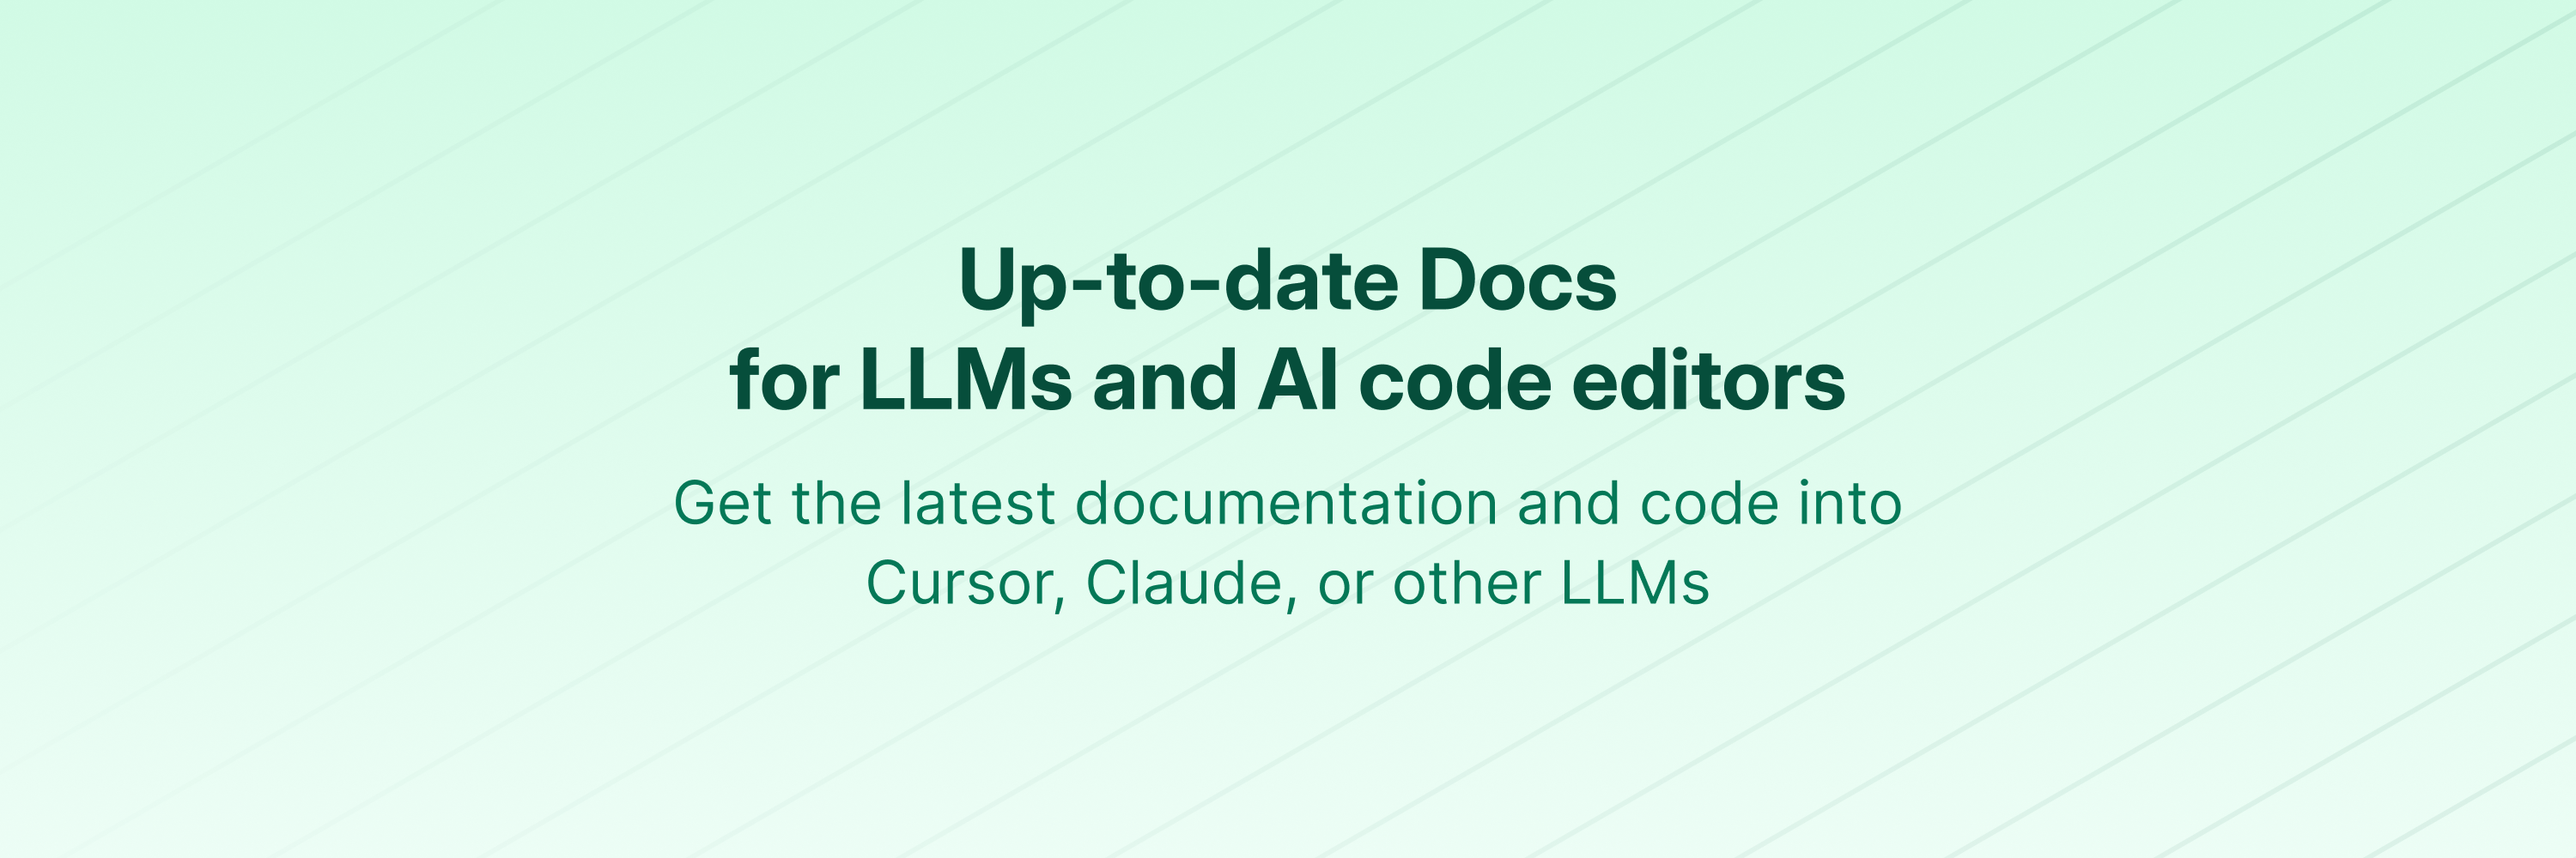
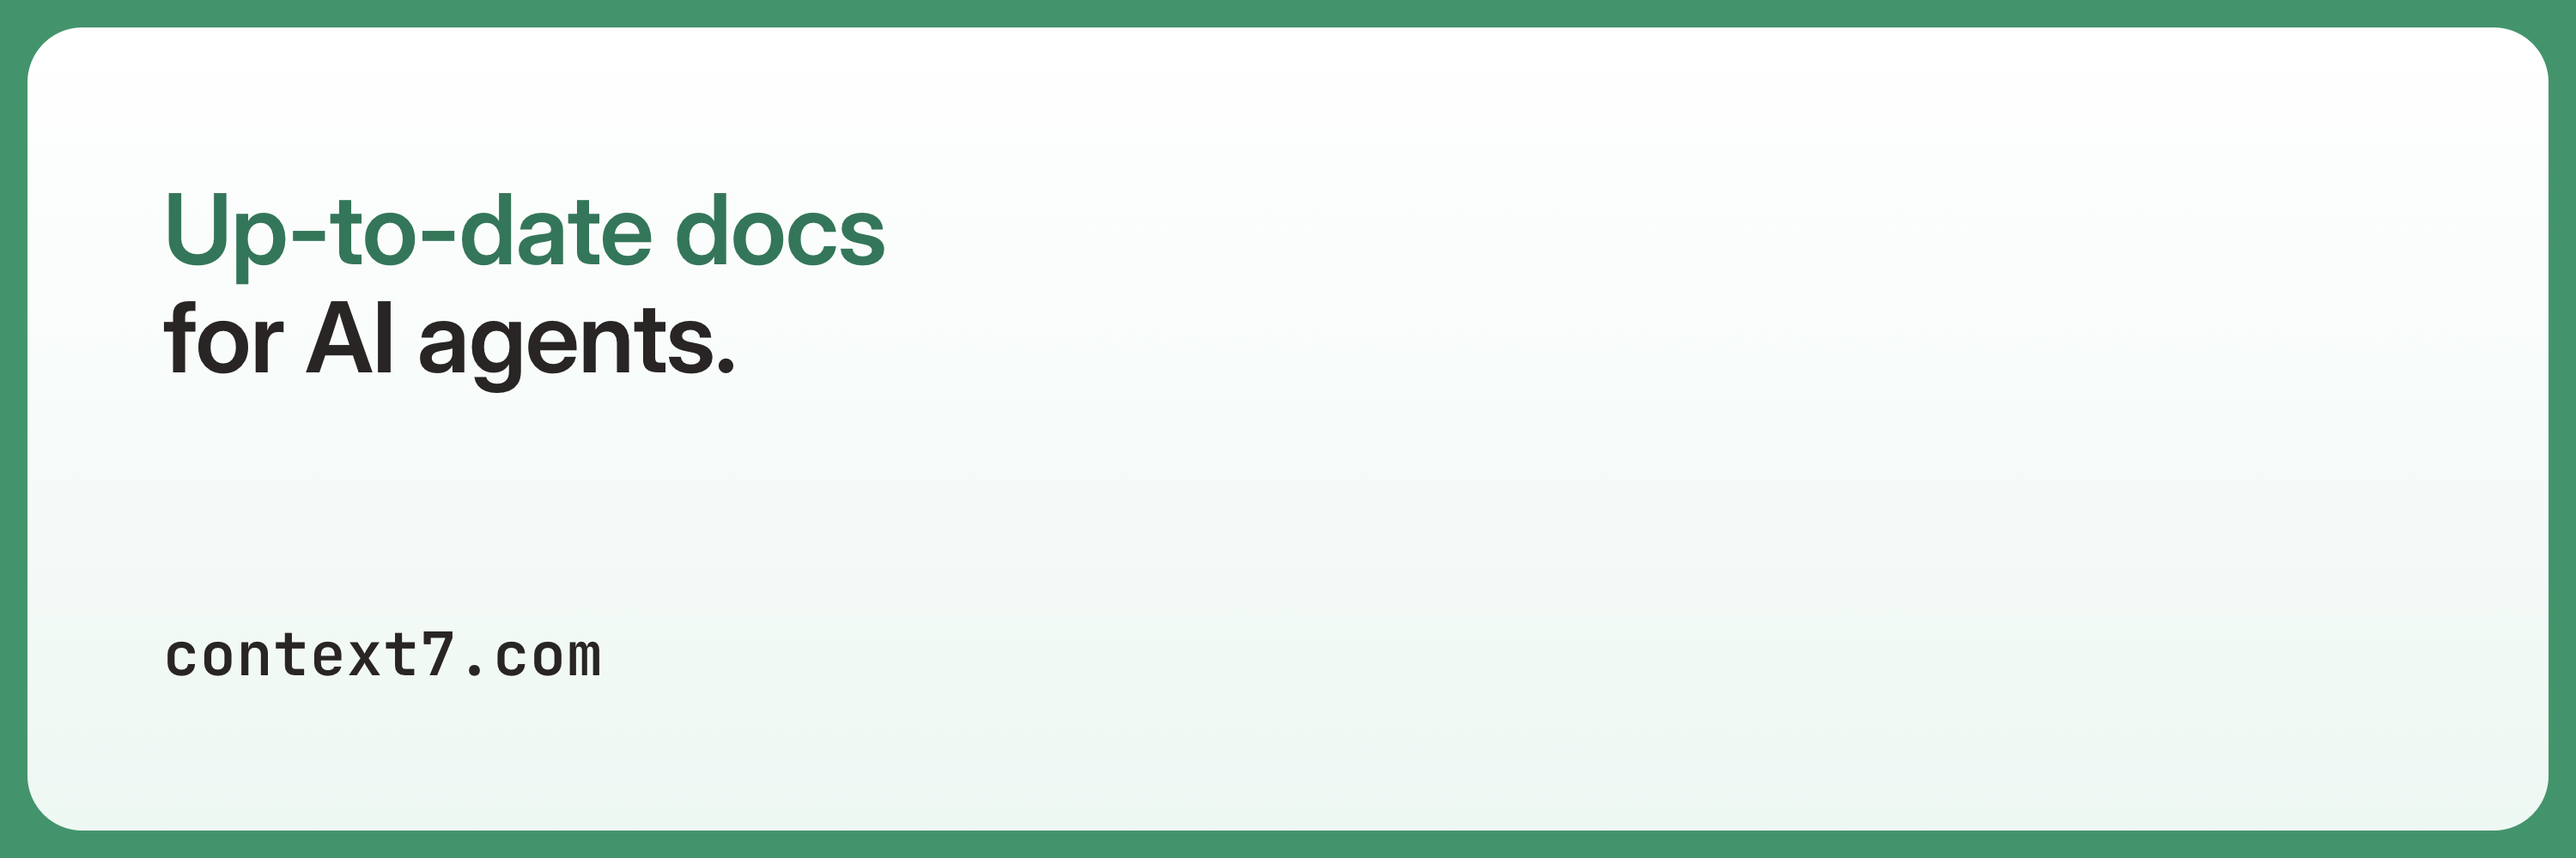
CTX7-3184: Position Context7 for AI agents in README, docs and plugin copy

diff --git a/i18n/README.uk.md b/i18n/README.uk.md
@@ -1,4 +1,4 @@
-# Context7 MCP — Актуальна документація з прикладами коду для будь-якого запиту
+# Context7 MCP — Актуальна документація для ШІ-агентів
 
 [![Website](https://img.shields.io/badge/Website-context7.com-blue)](https://context7.com) [<img alt="Install in VS Code (npx)" src="https://img.shields.io/badge/VS_Code-VS_Code?style=flat-square&label=Install%20Context7%20MCP&color=0098FF">](https://insiders.vscode.dev/redirect?url=vscode%3Amcp%2Finstall%3F%7B%22name%22%3A%22context7%22%2C%22command%22%3A%22npx%22%2C%22args%22%3A%5B%22-y%22%2C%22%40upstash%2Fcontext7-mcp%40latest%22%5D%7D)
 [![繁體中文](https://img.shields.io/badge/docs-繁體中文-yellow)](./README.zh-TW.md) [![简体中文](https://img.shields.io/badge/docs-简体中文-yellow)](./README.zh-CN.md) [![日本語](https://img.shields.io/badge/docs-日本語-b7003a)](./README.ja.md) [![한국어 문서](https://img.shields.io/badge/docs-한국어-green)](./README.ko.md) [![Documentación en Español](https://img.shields.io/badge/docs-Español-orange)](./README.es.md) [![Documentation en Français](https://img.shields.io/badge/docs-Français-blue)](./README.fr.md) [![Documentação em Português (Brasil)](<https://img.shields.io/badge/docs-Português%20(Brasil)-purple>)](./README.pt-BR.md) [![Documentazione in italiano](https://img.shields.io/badge/docs-Italian-red)](./README.it.md) [![Dokumentasi Bahasa Indonesia](https://img.shields.io/badge/docs-Bahasa%20Indonesia-pink)](./README.id-ID.md) [![Dokumentation auf Deutsch](https://img.shields.io/badge/docs-Deutsch-darkgreen)](./README.de.md) [![Документация на русском языке](https://img.shields.io/badge/docs-Русский-darkblue)](./README.ru.md) [![Türkçe Doküman](https://img.shields.io/badge/docs-Türkçe-blue)](./README.tr.md) [![Arabic Documentation](https://img.shields.io/badge/docs-Arabic-white)](./README.ar.md) [![Українська документація](https://img.shields.io/badge/docs-Українська-lightblue)](./README.uk.md)

diff --git a/i18n/README.vi.md b/i18n/README.vi.md
@@ -1,4 +1,4 @@
-# Context7 MCP - Tài Liệu Code Cập Nhật Cho Mọi Prompt
+# Context7 MCP - Tài Liệu Cập Nhật Cho Các AI Agent
 
 [![Website](https://img.shields.io/badge/Website-context7.com-blue)](https://context7.com) [<img alt="Install in VS Code (npx)" src="https://img.shields.io/badge/VS_Code-VS_Code?style=flat-square&label=Install%20Context7%20MCP&color=0098FF">](https://insiders.vscode.dev/redirect?url=vscode%3Amcp%2Finstall%3F%7B%22name%22%3A%22context7%22%2C%22command%22%3A%22npx%22%2C%22args%22%3A%5B%22-y%22%2C%22%40upstash%2Fcontext7-mcp%40latest%22%5D%7D)
 [![繁體中文](https://img.shields.io/badge/docs-繁體中文-yellow)](./README.zh-TW.md) [![简体中文](https://img.shields.io/badge/docs-简体中文-yellow)](./README.zh-CN.md) [![日本語](https://img.shields.io/badge/docs-日本語-b7003a)](./README.ja.md) [![한국어 문서](https://img.shields.io/badge/docs-한국어-green)](./README.ko.md) [![Documentación en Español](https://img.shields.io/badge/docs-Español-orange)](./README.es.md) [![Documentation en Français](https://img.shields.io/badge/docs-Français-blue)](./README.fr.md) [![Documentação em Português (Brasil)](<https://img.shields.io/badge/docs-Português%20(Brasil)-purple>)](./README.pt-BR.md) [![Documentazione in italiano](https://img.shields.io/badge/docs-Italian-red)](./README.it.md) [![Dokumentasi Bahasa Indonesia](https://img.shields.io/badge/docs-Bahasa%20Indonesia-pink)](./README.id-ID.md) [![Dokumentation auf Deutsch](https://img.shields.io/badge/docs-Deutsch-darkgreen)](./README.de.md) [![Документация на русском языке](https://img.shields.io/badge/docs-Русский-darkblue)](./README.ru.md) [![Українська документація](https://img.shields.io/badge/docs-Українська-lightblue)](./README.uk.md) [![Türkçe Doküman](https://img.shields.io/badge/docs-Türkçe-blue)](./README.tr.md) [![Arabic Documentation](https://img.shields.io/badge/docs-Arabic-white)](./README.ar.md) [![Tiếng Việt](https://img.shields.io/badge/docs-Tiếng%20Việt-red)](./README.vi.md)

diff --git a/i18n/README.id-ID.md b/i18n/README.id-ID.md
@@ -1,4 +1,4 @@
-# Context7 MCP - Dokumentasi Kode Terkini Untuk Setiap Permintaan
+# Context7 MCP - Dokumentasi Terkini Untuk Agen AI
 
 [![Website](https://img.shields.io/badge/Website-context7.com-blue)](https://context7.com) [<img alt="Install in VS Code (npx)" src="https://img.shields.io/badge/VS_Code-VS_Code?style=flat-square&label=Install%20Context7%20MCP&color=0098FF">](https://insiders.vscode.dev/redirect?url=vscode%3Amcp%2Finstall%3F%7B%22name%22%3A%22context7%22%2C%22command%22%3A%22npx%22%2C%22args%22%3A%5B%22-y%22%2C%22%40upstash%2Fcontext7-mcp%40latest%22%5D%7D)
 [![English](https://img.shields.io/badge/docs-English-blue)](../README.md) [![繁體中文](https://img.shields.io/badge/docs-繁體中文-yellow)](./README.zh-TW.md) [![简体中文](https://img.shields.io/badge/docs-简体中文-yellow)](./README.zh-CN.md) [![日本語](https://img.shields.io/badge/docs-日本語-b7003a)](./README.ja.md) [![한국어 문서](https://img.shields.io/badge/docs-한국어-green)](./README.ko.md) [![Documentación en Español](https://img.shields.io/badge/docs-Español-orange)](./README.es.md) [![Documentation en Français](https://img.shields.io/badge/docs-Français-blue)](./README.fr.md) [![Documentação em Português (Brasil)](<https://img.shields.io/badge/docs-Português%20(Brasil)-purple>)](./README.pt-BR.md) [![Documentazione in italiano](https://img.shields.io/badge/docs-Italian-red)](./README.it.md) [![Dokumentasi Bahasa Indonesia](https://img.shields.io/badge/docs-Bahasa%20Indonesia-pink)](./README.id-ID.md) [![Dokumentation auf Deutsch](https://img.shields.io/badge/docs-Deutsch-darkgreen)](./README.de.md) [![Документация на русском языке](https://img.shields.io/badge/docs-Русский-darkblue)](./README.ru.md) [![Українська документація](https://img.shields.io/badge/docs-Українська-lightblue)](./README.uk.md) [![Türkçe Doküman](https://img.shields.io/badge/docs-Türkçe-blue)](./README.tr.md) [![Arabic Documentation](https://img.shields.io/badge/docs-Arabic-white)](./README.ar.md)

diff --git a/packages/mcp/README.md b/packages/mcp/README.md
@@ -2,7 +2,7 @@
 
 [![Install MCP Server](https://cursor.com/deeplink/mcp-install-dark.svg)](https://cursor.com/en/install-mcp?name=context7&config=eyJ1cmwiOiJodHRwczovL21jcC5jb250ZXh0Ny5jb20vbWNwIn0%3D) [<img alt="Install in VS Code (npx)" src="https://img.shields.io/badge/Install%20in%20VS%20Code-0098FF?style=for-the-badge&logo=visualstudiocode&logoColor=white">](https://insiders.vscode.dev/redirect?url=vscode%3Amcp%2Finstall%3F%7B%22name%22%3A%22context7%22%2C%22command%22%3A%22npx%22%2C%22args%22%3A%5B%22-y%22%2C%22%40upstash%2Fcontext7-mcp%40latest%22%5D%7D)
 
-# Context7 MCP - Up-to-date Code Docs For Any Prompt
+# Context7 MCP - Up-to-date Docs for AI Agents
 
 [![Website](https://img.shields.io/badge/Website-context7.com-blue)](https://context7.com) [![NPM Version](https://img.shields.io/npm/v/%40upstash%2Fcontext7-mcp?color=red)](https://www.npmjs.com/package/@upstash/context7-mcp) [![MIT licensed](https://img.shields.io/npm/l/%40upstash%2Fcontext7-mcp)](./LICENSE)
 
@@ -18,7 +18,7 @@ LLMs rely on outdated or generic information about the libraries you use. You ge
 
 ## ✅ With Context7
 
-Context7 MCP pulls up-to-date, version-specific documentation and code examples straight from the source — and places them directly into your prompt.
+Context7 MCP pulls up-to-date, version-specific documentation and code examples straight from the source — and gives them to your coding agent.
 
 Add `use context7` to your prompt (or [set up a rule](#-installation) to auto-invoke):
 
@@ -32,7 +32,7 @@ Configure a Cloudflare Worker script to cache
 JSON API responses for five minutes. use context7
 ```
 
-Context7 fetches up-to-date code examples and documentation right into your LLM's context.
+Context7 fetches up-to-date code examples and documentation right into your coding agent's context.
 
 - 1⃣ Write your prompt naturally
 - 2⃣ Tell the LLM to `use context7` (or [set up a rule](#-installation) once)

diff --git a/i18n/README.ja.md b/i18n/README.ja.md
@@ -1,4 +1,4 @@
-# Context7 MCP - どんなプロンプトにも最新のコードドキュメントで応える
+# Context7 MCP - AIエージェントのための最新ドキュメント
 
 [![Website](https://img.shields.io/badge/Website-context7.com-blue)](https://context7.com) [<img alt="Install in VS Code (npx)" src="https://img.shields.io/badge/VS_Code-VS_Code?style=flat-square&label=Install%20Context7%20MCP&color=0098FF">](https://insiders.vscode.dev/redirect?url=vscode%3Amcp%2Finstall%3F%7B%22name%22%3A%22context7%22%2C%22command%22%3A%22npx%22%2C%22args%22%3A%5B%22-y%22%2C%22%40upstash%2Fcontext7-mcp%40latest%22%5D%7D)
 [![繁體中文](https://img.shields.io/badge/docs-繁體中文-yellow)](./README.zh-TW.md) [![簡體中文](https://img.shields.io/badge/docs-簡體中文-yellow)](./README.zh-CN.md) [![日本語](https://img.shields.io/badge/docs-日本語-b7003a)](./README.ja.md) [![한국어 문서](https://img.shields.io/badge/docs-한국어-green)](./README.ko.md) [![Documentación en Español](https://img.shields.io/badge/docs-Español-orange)](./README.es.md) [![Documentation en Français](https://img.shields.io/badge/docs-Français-blue)](./README.fr.md) [![Documentação em Português (Brasil)](<https://img.shields.io/badge/docs-Português%20(Brasil)-purple>)](./README.pt-BR.md) [![Documentazione in italiano](https://img.shields.io/badge/docs-Italian-red)](./README.it.md) [![Dokumentasi Bahasa Indonesia](https://img.shields.io/badge/docs-Bahasa%20Indonesia-pink)](./README.id-ID.md) [![Dokumentation auf Deutsch](https://img.shields.io/badge/docs-Deutsch-darkgreen)](./README.de.md) [![Документация на русском языке](https://img.shields.io/badge/docs-Русский-darkblue)](./README.ru.md) [![Türkçe Doküman](https://img.shields.io/badge/docs-Türkçe-blue)](./README.tr.md) [![Arabic Documentation](https://img.shields.io/badge/docs-Arabic-white)](./README.ar.md)

diff --git a/README.md b/README.md
@@ -2,7 +2,7 @@
 
 [![Install MCP Server](https://cursor.com/deeplink/mcp-install-dark.svg)](https://cursor.com/en/install-mcp?name=context7&config=eyJ1cmwiOiJodHRwczovL21jcC5jb250ZXh0Ny5jb20vbWNwIn0%3D)
 
-# Context7 Platform - Up-to-date Code Docs For Any Prompt
+# Context7 - Up-to-date Docs for AI Agents
 
 [![Website](https://img.shields.io/badge/Website-context7.com-blue)](https://context7.com) [![NPM Version](https://img.shields.io/npm/v/%40upstash%2Fcontext7-mcp?color=red)](https://www.npmjs.com/package/@upstash/context7-mcp) [![MIT licensed](https://img.shields.io/npm/l/%40upstash%2Fcontext7-mcp)](./LICENSE)
 
@@ -18,7 +18,7 @@ LLMs rely on outdated or generic information about the libraries you use. You ge
 
 ## ✅ With Context7
 
-Context7 pulls up-to-date, version-specific documentation and code examples straight from the source — and places them directly into your prompt.
+Context7 pulls up-to-date, version-specific documentation and code examples straight from the source — and gives them to your coding agent.
 
 ```txt
 Create a Next.js proxy that checks for a valid JWT in cookies
@@ -34,7 +34,7 @@ JSON API responses for five minutes. use context7
 Show me the Supabase auth API for email/password sign-up.
 ```
 
-Context7 fetches up-to-date code examples and documentation right into your LLM's context. No tab-switching, no hallucinated APIs that don't exist, no outdated code generation.
+Context7 fetches up-to-date code examples and documentation right into your coding agent's context. No tab-switching, no hallucinated APIs that don't exist, no outdated code generation.
 
 Works in two modes:
 

diff --git a/i18n/README.tr.md b/i18n/README.tr.md
@@ -1,4 +1,4 @@
-# Context7 MCP - Herhangi Bir Prompt İçin Güncel Kod Belgeleri
+# Context7 MCP - Yapay Zeka Ajanları İçin Güncel Belgeler
 
 [![Website](https://img.shields.io/badge/Website-context7.com-blue)](https://context7.com) [<img alt="VS Code'da Yükle (npx)" src="https://img.shields.io/badge/VS_Code-VS_Code?style=flat-square&label=Context7%20MCP%20Y%C3%BCkle&color=0098FF">](https://insiders.vscode.dev/redirect?url=vscode%3Amcp%2Finstall%3F%7B%22name%22%3A%22context7%22%2C%22command%22%3A%22npx%22%2C%22args%22%3A%5B%22-y%22%2C%22%40upstash%2Fcontext7-mcp%40latest%22%5D%7D)
 [![中文文档](https://img.shields.io/badge/docs-中文版-yellow)](./README.zh-CN.md) [![한국어 문서](https://img.shields.io/badge/docs-한국어-green)](./README.ko.md) [![Documentación en Español](https://img.shields.io/badge/docs-Español-orange)](./README.es.md) [![Documentation en Français](https://img.shields.io/badge/docs-Français-blue)](./README.fr.md) [![Documentação em Português (Brasil)](<https://img.shields.io/badge/docs-Português%20(Brasil)-purple>)](./README.pt-BR.md) [![Documentazione in italiano](https://img.shields.io/badge/docs-Italian-red)](./README.it.md) [![Dokumentasi Bahasa Indonesia](https://img.shields.io/badge/docs-Bahasa%20Indonesia-pink)](./README.id-ID.md) [![Dokumentation auf Deutsch](https://img.shields.io/badge/docs-Deutsch-darkgreen)](./README.de.md) [![Документация на русском языке](https://img.shields.io/badge/docs-Русский-darkblue)](./README.ru.md) [![Türkçe Doküman](https://img.shields.io/badge/docs-Türkçe-blue)](./README.tr.md)

diff --git a/i18n/README.it.md b/i18n/README.it.md
@@ -1,4 +1,4 @@
-# Context7 MCP - Documentazione aggiornata per qualsiasi prompt
+# Context7 MCP - Documentazione aggiornata per gli agenti IA
 
 [![Website](https://img.shields.io/badge/Website-context7.com-blue)](https://context7.com) [<img alt="Install in VS Code (npx)" src="https://img.shields.io/badge/VS_Code-VS_Code?style=flat-square&label=Installa%20Context7%20MCP&color=0098FF">](https://insiders.vscode.dev/redirect?url=vscode%3Amcp%2Finstall%3F%7B%22name%22%3A%22context7%22%2C%22command%22%3A%22npx%22%2C%22args%22%3A%5B%22-y%22%2C%22%40upstash%2Fcontext7-mcp%40latest%22%5D%7D)
 [![中文文档](https://img.shields.io/badge/docs-中文版-yellow)](./README.zh-CN.md) [![한국어 문서](https://img.shields.io/badge/docs-한국어-green)](./README.ko.md) [![Documentación en Español](https://img.shields.io/badge/docs-Español-orange)](./README.es.md) [![Documentation en Français](https://img.shields.io/badge/docs-Français-blue)](./README.fr.md) [![Documentação em Português (Brasil)](<https://img.shields.io/badge/docs-Português%20(Brasil)-purple>)](./README.pt-BR.md) [![Documentazione in italiano](https://img.shields.io/badge/docs-Italian-red)](./README.it.md)

diff --git a/i18n/README.pt-BR.md b/i18n/README.pt-BR.md
@@ -1,4 +1,4 @@
-# Context7 MCP - Documentação de Código Atualizada para Qualquer Prompt
+# Context7 MCP - Documentação Atualizada para Agentes de IA
 
 [![Website](https://img.shields.io/badge/Website-context7.com-blue)](https://context7.com)
 [<img alt="Instalar no Cursor" src="https://img.shields.io/badge/Instalar%20no%20CURSOR-000000?style=for-the-badge&logo=cursor&logoColor=white">](https://cursor.com/en/install-mcp?name=context7&config=eyJ1cmwiOiJodHRwczovL21jcC5jb250ZXh0Ny5jb20vbWNwIn0%3D) [<img alt="Instalar no VS Code (npx)" src="https://img.shields.io/badge/Instalar%20no%20VS%20Code-0098FF?style=for-the-badge&logo=visualstudiocode&logoColor=white">](https://insiders.vscode.dev/redirect?url=vscode%3Amcp%2Finstall%3F%7B%22name%22%3A%22context7%22%2C%22command%22%3A%22npx%22%2C%22args%22%3A%5B%22-y%22%2C%22%40upstash%2Fcontext7-mcp%40latest%22%5D%7D)

diff --git a/i18n/README.es.md b/i18n/README.es.md
@@ -1,4 +1,4 @@
-# Context7 MCP - Documentación Actualizada Para Cualquier Prompt
+# Context7 MCP - Documentación Actualizada Para Agentes de IA
 
 [![Sitio Web](https://img.shields.io/badge/Website-context7.com-blue)](https://context7.com) [<img alt="Instalar en VS Code (npx)" src="https://img.shields.io/badge/VS_Code-VS_Code?style=flat-square&label=Instalar%20Context7%20MCP&color=0098FF">](https://insiders.vscode.dev/redirect?url=vscode%3Amcp%2Finstall%3F%257B%2522name%2522%253A%2522context7%2522%252C%2522config%2522%253A%257B%2522command%2522%253A%2522npx%2522%252C%2522args%2522%253A%255B%2522-y%2522%252C%2522%2540upstash%252Fcontext7-mcp%2540latest%2522%255D%257D%257D)
 

diff --git a/i18n/README.zh-TW.md b/i18n/README.zh-TW.md
@@ -2,7 +2,7 @@
 
 [![安裝 MCP 伺服器](https://cursor.com/deeplink/mcp-install-dark.svg)](https://cursor.com/en/install-mcp?name=context7&config=eyJ1cmwiOiJodHRwczovL21jcC5jb250ZXh0Ny5jb20vbWNwIn0%3D)
 
-# Context7 MCP - 即時更新的程式碼文件，適用於任何提示
+# Context7 MCP - 為 AI 代理提供即時更新的文件
 
 [![Website](https://img.shields.io/badge/Website-context7.com-blue)](https://context7.com) [![NPM Version](https://img.shields.io/npm/v/%40upstash%2Fcontext7-mcp?color=red)](https://www.npmjs.com/package/@upstash/context7-mcp) [![MIT licensed](https://img.shields.io/npm/l/%40upstash%2Fcontext7-mcp)](./LICENSE)
 

diff --git a/i18n/README.ru.md b/i18n/README.ru.md
@@ -1,4 +1,4 @@
-# Context7 MCP - Актуальная документация для любого промпта
+# Context7 MCP - Актуальная документация для ИИ-агентов
 
 [![Website](https://img.shields.io/badge/Website-context7.com-blue)](https://context7.com) [<img alt="Install in VS Code (npx)" src="https://img.shields.io/badge/VS_Code-VS_Code?style=flat-square&label=Install%20Context7%20MCP&color=0098FF">](https://insiders.vscode.dev/redirect?url=vscode%3Amcp%2Finstall%3F%7B%22name%22%3A%22context7%22%2C%22command%22%3A%22npx%22%2C%22args%22%3A%5B%22-y%22%2C%22%40upstash%2Fcontext7-mcp%40latest%22%5D%7D)
 
